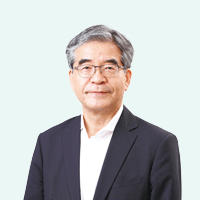
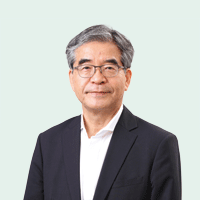
教員一覧ページ プロフィール写真追加

diff --git a/pages/portal4fs/index.md b/pages/portal4fs/index.md
@@ -1,5 +1,5 @@
 ---
-layout: page
+layout: page_studyabroad
 title: フィールドスタディー・ポータル
 permalink: /portal4fs/
 category: portal4fs
@@ -8,27 +8,24 @@ sort: 1
 
 ## Field Study Guide 2018
 
-<!--![field trip](/assets/images/v1/2018/07/Field-trip_-_school_children_outdoors_listening_to_man_wide.jpg "field trip"){:.image}-->
-![field trip](../assets/images/v1/2018/07/Field-trip_-_school_children_outdoors_listening_to_man_wide.jpg "field trip"){:.image}
-
 {:.list-links}
 <ul class="portal4fs">
   <li><a href="https://github.com/gsc-aoyama/fieldstudy-guide4gsc/raw/master/FieldStudyGuide2018/FieldWorkPlanProposal2018.docx" class="doc" target="_blank">調査計画書</a></li>
-  <li><a href="https://github.com/gsc-aoyama/fieldstudy-guide4gsc/raw/master/FieldStudyGuide2018/FieldWorkLog2018.docx" class="doc" target="_blank">フィールドワーク記録</a></li>
-  <li><a href="https://github.com/gsc-aoyama/fieldstudy-guide4gsc/raw/master/FieldStudyGuide2018/FieldWorkRecordSheet2018(rev.1130).xlsx" class="xls" target="_blank">フィールドワーク実施時間集計表(2018/11/30 更新)</a></li>
-  <li><a href="https://github.com/gsc-aoyama/fieldstudy-guide4gsc/raw/master/FieldStudyGuide2018/FieldWorkReport2018.docx" class="doc" target="_blank">フィールドワーク実施報告書</a></li>
-  <li><a href="https://github.com/gsc-aoyama/fieldstudy-guide4gsc/raw/master/FieldStudyGuide2018/FieldWorkReport2018.docx" class="doc" target="_blank">フィールドワーク実施報告書</a></li>
+  <li><a href="https://github.com/gsc-aoyama/fieldstudy-guide4gsc/raw/master/FieldStudyGuide2018/FieldWorkLog2018.docx" class="doc" target="_blank">フィールト゛ワーク記録</a></li>
+  <li><a href="https://github.com/gsc-aoyama/fieldstudy-guide4gsc/raw/master/FieldStudyGuide2018/FieldWorkRecordSheet2018(rev.1130).xlsx" class="xls" target="_blank">フィールト゛ワーク実施時間集計表(2018/11/30 更新)</a></li>
+  <li><a href="https://github.com/gsc-aoyama/fieldstudy-guide4gsc/raw/master/FieldStudyGuide2018/FieldWorkReport2018.docx" class="doc" target="_blank">フィールト゛ワーク実施報告書</a></li>
+  <li><a href="https://github.com/gsc-aoyama/fieldstudy-guide4gsc/raw/master/FieldStudyGuide2018/FieldWorkReport2018.docx" class="doc" target="_blank">フィールト゛ワーク実施報告書</a></li>
   <li><a href="https://github.com/gsc-aoyama/www4gsc/raw/gh-pages/assets/docs/2018/09/8%20%E5%AE%BF%E6%B3%8A%E3%82%92%E4%BC%B4%E3%81%86%E8%AA%BF%E6%9F%BB%E7%AD%89_%E8%A8%88%E7%94%BB%E6%9B%B8_%E6%9B%B8%E5%BC%8F.docx" class="doc" target="_blank">宿泊を伴う調査等計画書書式</a></li>
-  <li><a href="https://github.com/gsc-aoyama/templetes4fieldstudy/blob/master/v1.2/README.md" class="pop" target="_blank">調査結果報告用ポスターテンプレート</a></li>
+  <li><a href="https://github.com/gsc-aoyama/templetes4fieldstudy/blob/master/v1.2/README.md" class="pop" target="_blank">調査結果報告用ホ゜スターテンフ゜レート</a></li>
 </ul>
 
 <!--
 *   [調査計画書](https://github.com/gsc-aoyama/fieldstudy-guide4gsc/raw/master/FieldStudyGuide2018/FieldWorkPlanProposal2018.docx)
-*   [フィールドワーク記録](https://github.com/gsc-aoyama/fieldstudy-guide4gsc/raw/master/FieldStudyGuide2018/FieldWorkLog2018.docx)
-*   [フィールドワーク実施時間集計表](https://github.com/gsc-aoyama/fieldstudy-guide4gsc/raw/master/FieldStudyGuide2018/FieldWorkRecordSheet2018.xlsx)
-*   [フィールドワーク実施報告書](https://github.com/gsc-aoyama/fieldstudy-guide4gsc/raw/master/FieldStudyGuide2018/FieldWorkReport2018.docx)
-*   [フィールドワーク実施報告書](https://github.com/gsc-aoyama/fieldstudy-guide4gsc/raw/master/FieldStudyGuide2018/FieldWorkReport2018.docx)
+*   [フィールト゛ワーク記録](https://github.com/gsc-aoyama/fieldstudy-guide4gsc/raw/master/FieldStudyGuide2018/FieldWorkLog2018.docx)
+*   [フィールト゛ワーク実施時間集計表](https://github.com/gsc-aoyama/fieldstudy-guide4gsc/raw/master/FieldStudyGuide2018/FieldWorkRecordSheet2018.xlsx)
+*   [フィールト゛ワーク実施報告書](https://github.com/gsc-aoyama/fieldstudy-guide4gsc/raw/master/FieldStudyGuide2018/FieldWorkReport2018.docx)
+*   [フィールト゛ワーク実施報告書](https://github.com/gsc-aoyama/fieldstudy-guide4gsc/raw/master/FieldStudyGuide2018/FieldWorkReport2018.docx)
 *   [宿泊を伴う調査等計画書書式](https://github.com/gsc-aoyama/www4gsc/raw/gh-pages/assets/docs/2018/09/8%20%E5%AE%BF%E6%B3%8A%E3%82%92%E4%BC%B4%E3%81%86%E8%AA%BF%E6%9F%BB%E7%AD%89_%E8%A8%88%E7%94%BB%E6%9B%B8_%E6%9B%B8%E5%BC%8F.docx)
-*   [調査結果報告用ポスターテンプレート](https://github.com/gsc-aoyama/templetes4fieldstudy/blob/master/v1.2/README.md)
+*   [調査結果報告用ホ゜スターテンフ゜レート](https://github.com/gsc-aoyama/templetes4fieldstudy/blob/master/v1.2/README.md)
 -->
 

diff --git a/pages/teacher/teachers.md b/pages/teacher/teachers.md
@@ -144,6 +144,20 @@ sort: 2
 </li>
 <li>
  <div class="photo">
+<img src="../../assets/images/v1/2019/teacher_HARA.png" alt="">
+</div>
+  <div class="text">
+  <div class="base">
+    <p class="name"><span class="jp">原 晋</span><br><span class="en">HARA Susumu</span></p>
+    <p class="credit"><span>教授</span><br><span>組織マネジメント / リーダーシップ / スポーツビジネス / スポーツふるさと創生</span></p>
+    <ul>
+      <li><a href="https://raweb1.jm.aoyama.ac.jp/aguhp/KgApp?kyoinId=ymidgsgbggo" target="_blank">プロフィール・主要研究業績</a></li>
+    </ul>    
+  </div>
+  </div>
+</li>
+<li>
+ <div class="photo">
 <img src="../../assets/images/v1/2019/teacher_FUKUSHIMA.png" alt="">
 </div>
   <div class="text">
@@ -204,11 +218,11 @@ sort: 2
 </li>
 <li>
  <div class="photo">
-<img src="../../assets/images/v1/2019/teacher_placeholder.png" alt="">
+<img src="../../assets/images/v1/2019/teacher_MATSUNAGA.png" alt="">
 </div>
   <div class="text">
   <div class="base">
-    <p class="name"><span class="jp">松永 エリック・匡史 </span><br><span class="en">MATSUNAGA Eric Masanobu</span></p>
+    <p class="name"><span class="jp">松永 エリック・匡史</span><br><span class="en">MATSUNAGA Eric Masanobu</span></p>
     <p class="credit"><span>教授</span><br><span>国際経営学 / デジタルトランスフォーメーション / 人材・組織マネジメント / PR戦略論</span></p>
     <ul>
       <li><a href="https://raweb1.jm.aoyama.ac.jp/aguhp/KgApp?kyoinId=ymidgsokggo" target="_blank">プロフィール・主要研究業績</a></li>
@@ -219,7 +233,7 @@ sort: 2
 </li>
 <li>
  <div class="photo">
-<img src="../../assets/images/v1/2019/teacher_placeholder.png" alt="">
+<img src="../../assets/images/v1/2019/teacher_MURAKAMI.png" alt="">
 </div>
   <div class="text">
   <div class="base">
@@ -234,7 +248,7 @@ sort: 2
 </li>
 <li>
  <div class="photo">
-<img src="../../assets/images/v1/2019/teacher_placeholder.png" alt="">
+<img src="../../assets/images/v1/2019/teacher_YAMASHITA.png" alt="">
 </div>
   <div class="text">
   <div class="base">
@@ -280,7 +294,7 @@ sort: 2
 </li>
 <li>
  <div class="photo">
-<img src="../../assets/images/v1/2019/teacher_placeholder.png" alt="">
+<img src="../../assets/images/v1/2019/teacher_SAKIKAWA.png" alt="">
 </div>
   <div class="text">
   <div class="base">
@@ -295,7 +309,7 @@ sort: 2
 </li>
 <li>
  <div class="photo">
-<img src="../../assets/images/v1/2019/teacher_placeholder.png" alt="">
+<img src="../../assets/images/v1/2019/teacher_SHIN.png" alt="">
 </div>
   <div class="text">
   <div class="base">
@@ -310,7 +324,7 @@ sort: 2
 </li>
 <li>
  <div class="photo">
-<img src="../../assets/images/v1/2019/teacher_placeholder.png" alt="">
+<img src="../../assets/images/v1/2019/teacher_TAKATA.png" alt="">
 </div>
   <div class="text">
   <div class="base">
